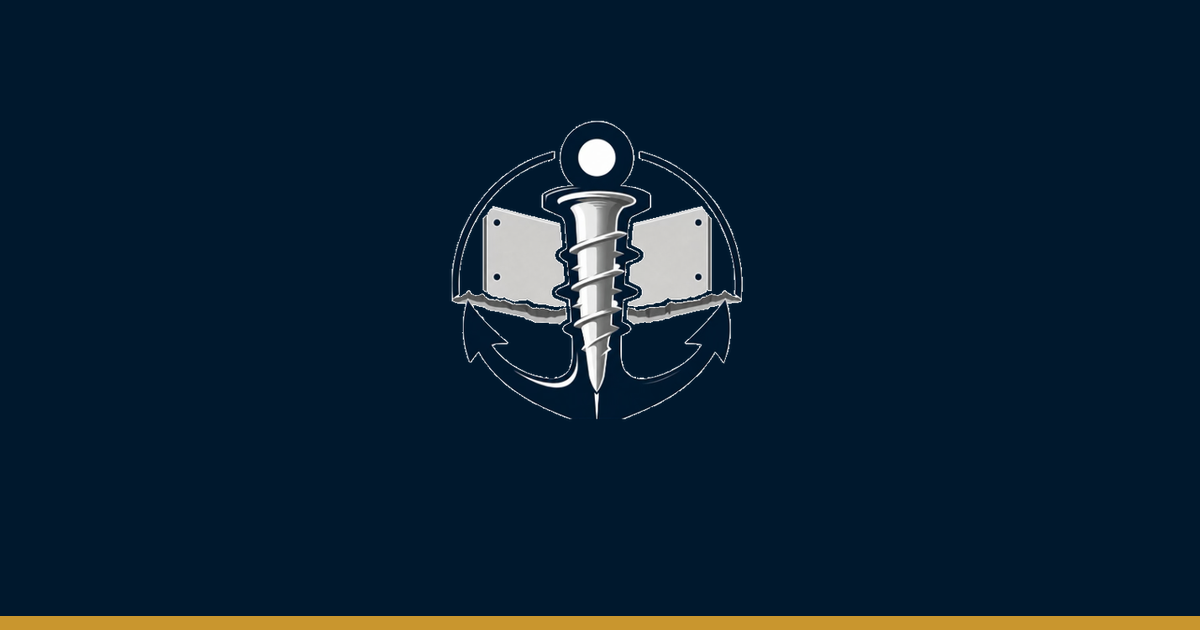
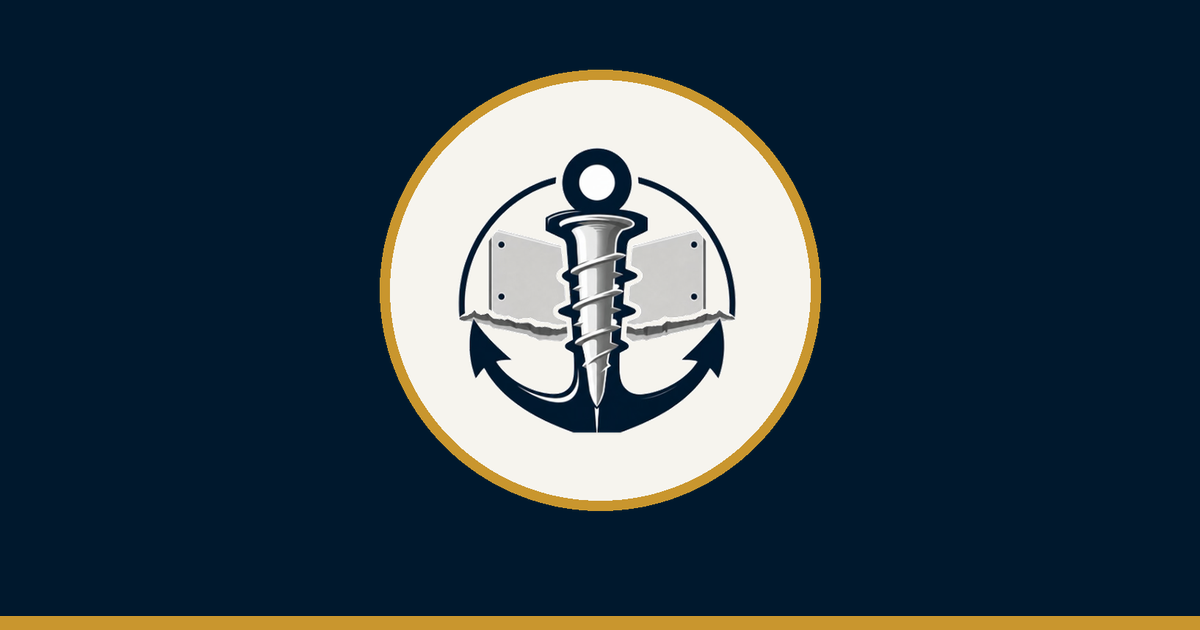
Badge the emblem: light disc + brass ring on navy, larger hero mark
Flood-fill left an anti-aliased white fringe on the emblem, and its navy
linework would sink into the navy hero once removed. Fix: emblem on a
light medallion disc with a brass ring — fringe invisible, art shows as
drawn, reads as an intentional badge in header/hero/favicon/og.

Generated with [Devin](https://devin.ai)

Changed region(s): [[0.3083, 0.0905, 0.7092, 0.8143]]

diff --git a/index.html b/index.html
@@ -35,7 +35,7 @@
 
 <header class="site-header">
   <a class="brand" href="#top">
-    <img src="assets/logo-emblem.png" alt="" width="38" height="38">
+    <img src="assets/badge.png" alt="" width="42" height="42">
     <span class="brand-text">
       <span class="brand-name">Anchorman</span>
       <span class="brand-sub">Handyman Services</span>
@@ -47,7 +47,7 @@
 <main id="top">
 
   <section class="hero">
-    <img class="hero-emblem" src="assets/logo-emblem.png" alt="" width="160" height="160">
+    <img class="hero-emblem" src="assets/badge.png" alt="Anchorman Handyman Services emblem" width="240" height="240">
     <h1 class="wordmark"><span class="wm-anchor">Anchor</span><span class="wm-man">man</span></h1>
     <p class="wm-sub"><span>Handyman Services</span></p>
     <p class="tagline">&#9875;&nbsp; Anchored in Quality &nbsp;&#9875;</p>

diff --git a/styles.css b/styles.css
@@ -129,9 +129,9 @@ body {
 }
 
 .hero-emblem {
-  width: 150px;
+  width: clamp(180px, 22vw, 240px);
   height: auto;
-  filter: drop-shadow(0 6px 18px rgba(0,0,0,0.45));
+  filter: drop-shadow(0 8px 24px rgba(0,0,0,0.5));
 }
 
 .wordmark {
